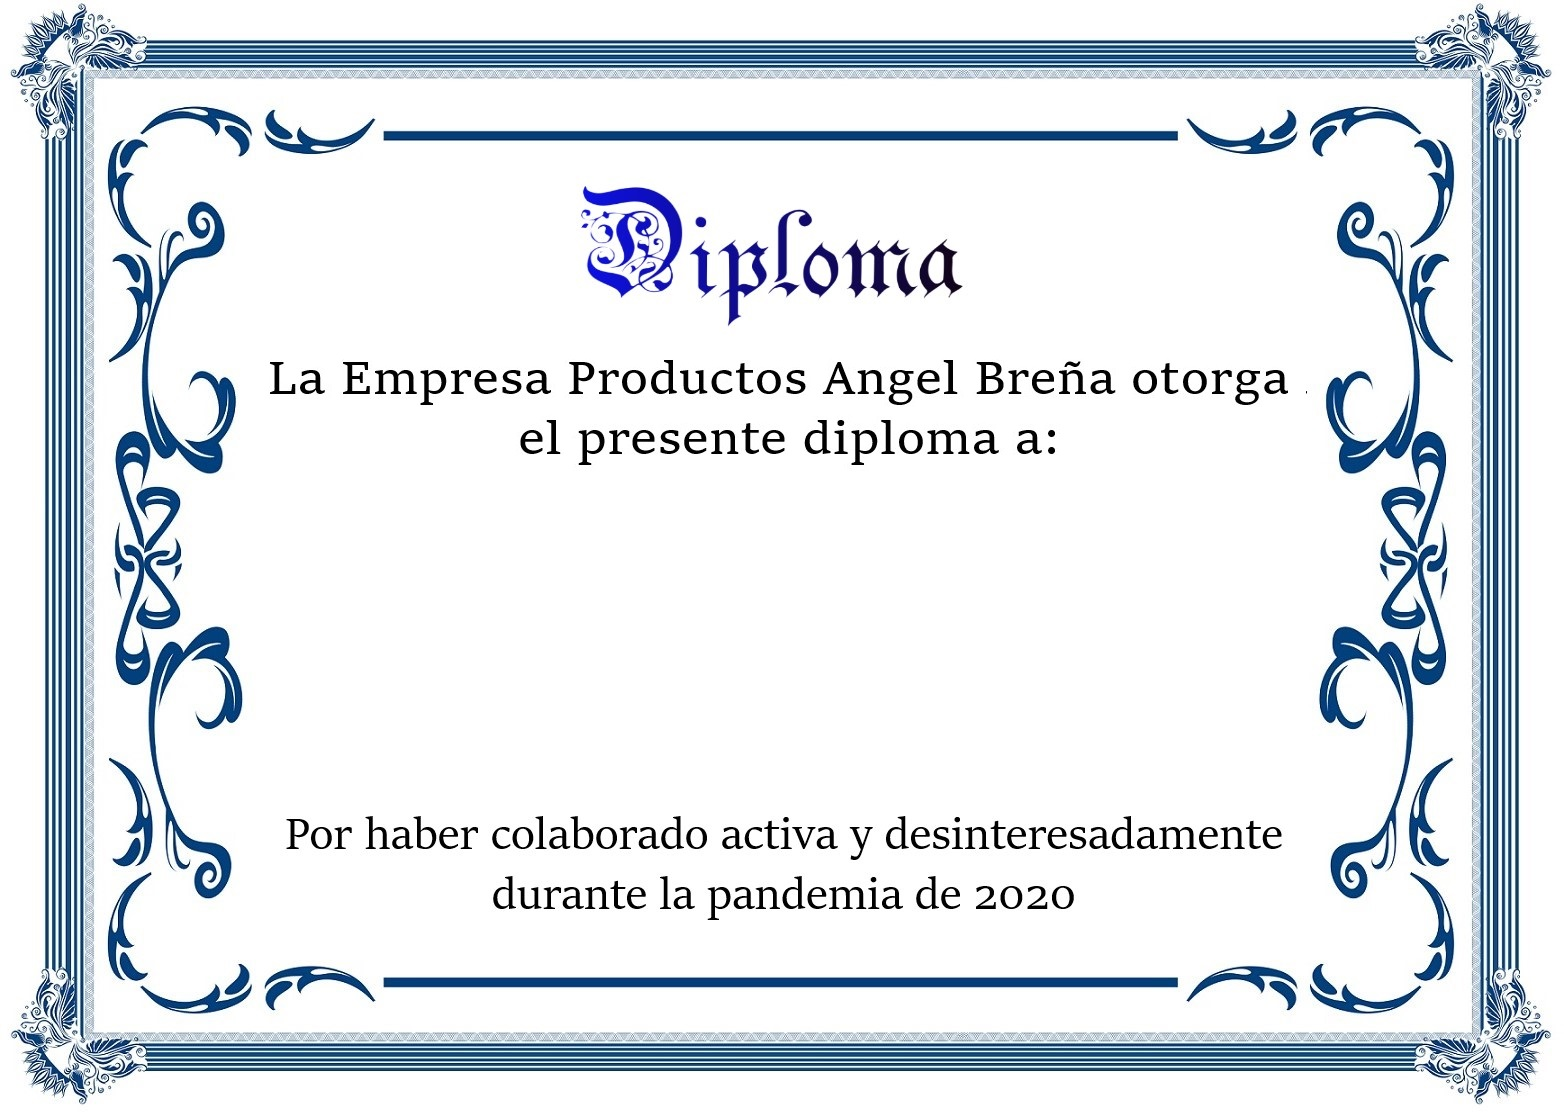
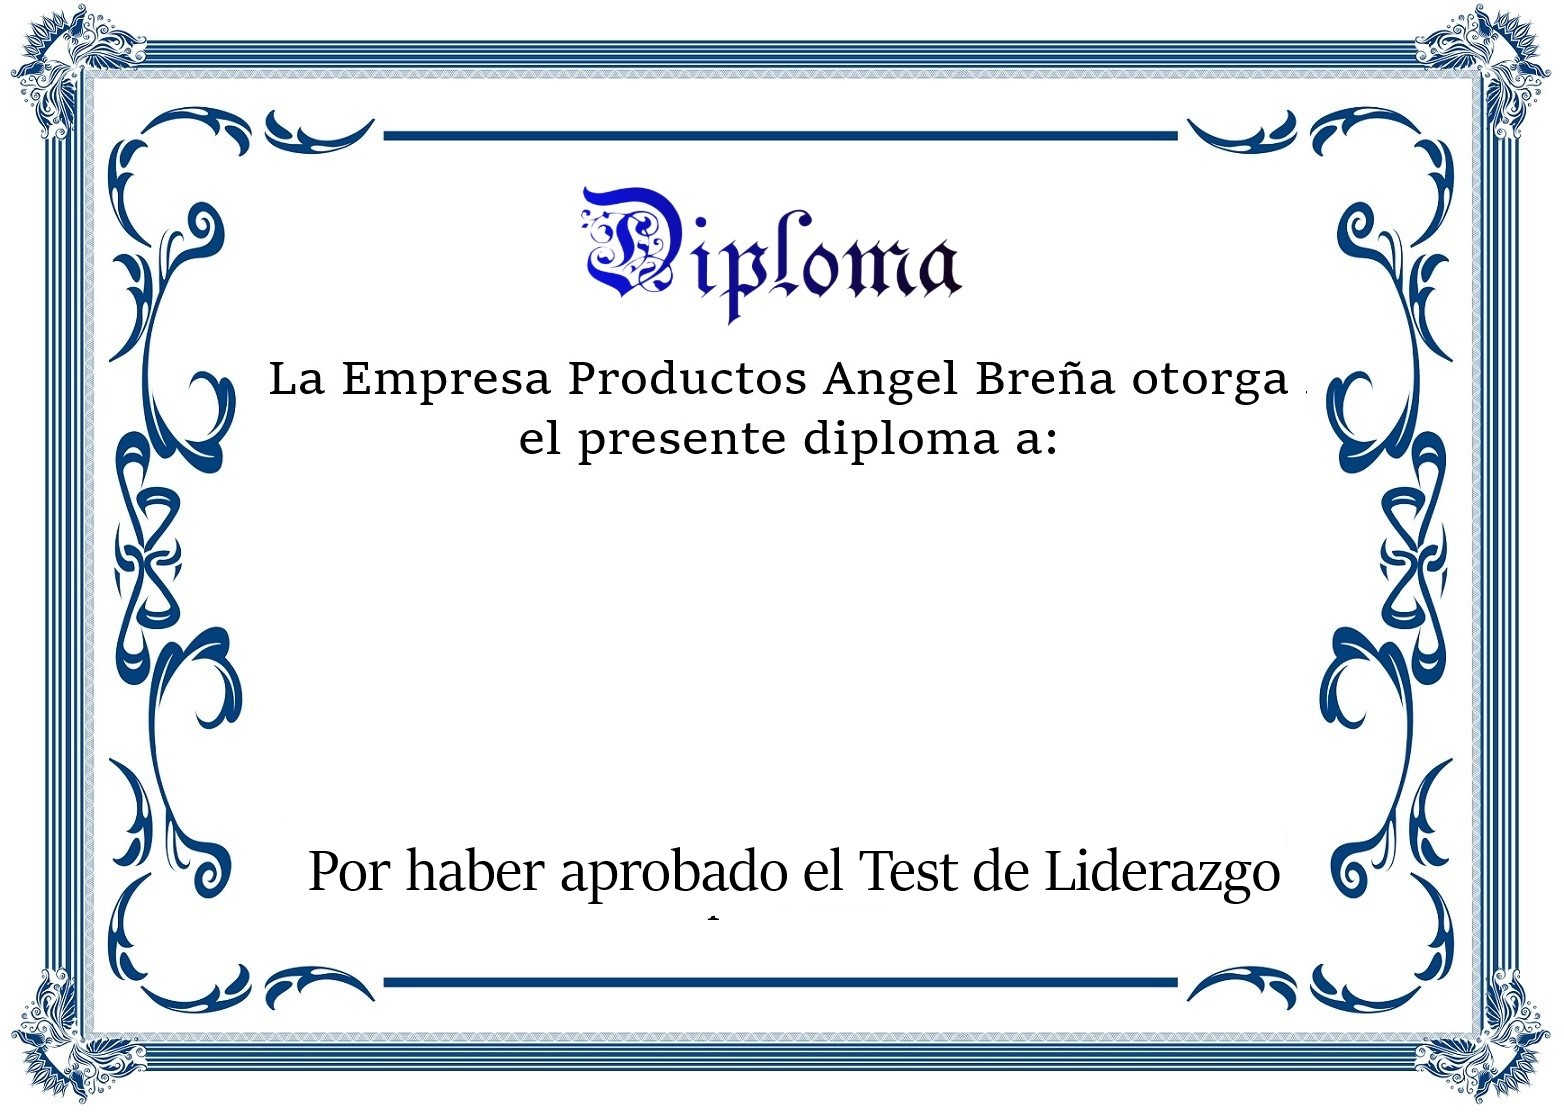
listo liderazgo

Changed region(s): [[0.1841, 0.7305, 0.8286, 0.8218]]

diff --git a/src/app/cuestionarios/ex3/ex3.component.ts b/src/app/cuestionarios/ex3/ex3.component.ts
@@ -11,7 +11,191 @@ import { Afiliado } from 'src/app/models/afiliado.model';
   styleUrls: ['./ex3.component.scss']
 })
 export class Ex3Component implements OnInit {
-  cuest=[{"preg":"Sientes  odio hacia otra persona","resps":["Si","No"],"vals":[0,2]},{"preg":"Te llevas bien con tus vecinos","resps":["Si","No"],"vals":[2,0]},{"preg": "A cuántas fiestas has ido","resps":["A ninguna","A una o dos","A más de 2"],"vals":[2,0,0]},{"preg": "Pandemia es","resps":["Un baile moderno","Una calamidad mundial","Anemia del pan"],"vals":[0,2,0]},{"preg": "Amor al Prójimo es","resps":["Amar a un señor llamado Prójimo","Apoyar a otro para pedir su voto","Preocuparse y ayudar a los demás"],"vals":[0,0,2]},{"preg": "A cuántas personas has ayudado este año","resps":["A ninguna","A menos de 3","A más de 5"],"vals":[0,2,2]},{"preg": "Te lavas las manos al llegar a casa","resps":["Si","No"],"vals":[2,0]},{"preg": "Si alguien no lleva facial en el bus","resps":["Lo felicitas","Lo imitas","Le reclamas","Lo golpeas","No haces nada"],"vals":[0,0,2,0,0]},{"preg": "A cuántas fiestas has ido","resps":["A ninguna","A una o dos","A más de 2"],"vals":[2,0,0]},{"preg": "Te preocupa el COVID 19","resps":["Si","No"],"vals":[2,0]},{"preg": "Respetas la cuarentena","resps":["Si","No"],"vals":[2,0]},{"preg": "Mantienes la distancia de metro y medio","resps":["Si","A veces","No"],"vals":[2,0,0]},{"preg": "Comes saludable","resps":["Si","No"],"vals":[2,0]},{"preg": "Ayudas a las autoridades","resps":["Si","No"],"vals":[2,0]},{"preg": "Ayudas a los infectados","resps":["Si","No"],"vals":[2,0]}];
+  cuest=[
+    {
+      "preg": "Jesús fue un Líder",
+      "resps": [
+        "Si",
+        "No"
+      ],
+      "vals": [
+        2,
+        0
+      ]
+    },
+    {
+      "preg": "Una Mujer puede ser Líder",
+      "resps": [
+        "Si",
+        "No"
+      ],
+      "vals": [
+        2,
+        0
+      ]
+    },
+    {
+      "preg": "Un buen Líder logra conseguir objetivos",
+      "resps": [
+        "Gritos",
+        "A golpes",
+        "Con inteligencia"
+      ],
+      "vals": [
+        0,
+        0,
+        2
+      ]
+    },
+    {
+      "preg": "Se consigue un buen liderazgo con",
+      "resps": [
+        "Dinero",
+        "Una conducta ejemplar",
+        "Buena conducta y resultados exitosos"
+      ],
+      "vals": [
+        0,
+        0,
+        2
+      ]
+    },
+    {
+      "preg": "Ser arrogante te hace ",
+      "resps": [
+        "Un Gran Líder",
+        "Una persona indeseada",
+        "Alguien que causa envídia"
+      ],
+      "vals": [
+        0,
+        2,
+        0
+      ]
+    },
+    {
+      "preg": "un Líder tiene",
+      "resps": [
+        "Objetivos",
+        "Objetivos y proyectos",
+        "Lo anterior más voluntad y persuación"
+      ],
+      "vals": [
+        0,
+        2,
+        2
+      ]
+    },
+    {
+      "preg": "Es Líder el Jefe de un grupo de ladrones",
+      "resps": [
+        "Si",
+        "No"
+      ],
+      "vals": [
+        2,
+        0
+      ]
+    },
+    {
+      "preg": "Quién es un gran Líder",
+      "resps": [
+        "Jaime Bayly",
+        "Vargas Llosa",
+        "ivanna Iturbe",
+        "Magaly Medina",
+        "Ninguno"
+      ],
+      "vals": [
+        0,
+        0,
+        0,
+        0,
+        2
+      ]
+    },
+    {
+      "preg": "Qué debe tener un buen Líder",
+      "resps": [
+        "Dinero",
+        "Matones o mercenarios",
+        "Poder de convencimiento"
+      ],
+      "vals": [
+        2,
+        0,
+        0
+      ]
+    },
+    {
+      "preg": "Un Líder puede usar El Engaño para conseguir objetivos",
+      "resps": [
+        "Si",
+        "No"
+      ],
+      "vals": [
+        2,
+        0
+      ]
+    },
+    {
+      "preg": "Una persona muerta puede ser Líder",
+      "resps": [
+        "Si",
+        "No"
+      ],
+      "vals": [
+        2,
+        0
+      ]
+    },
+    {
+      "preg": "Ser Líder te exime de ir a la carcel ",
+      "resps": [
+        "Si",
+        "No",
+        "Ninguna de las anteriores"
+      ],
+      "vals": [
+        0,
+        2,
+        0
+      ]
+    },
+    {
+      "preg": "Se nace Líder",
+      "resps": [
+        "Si",
+        "No"
+      ],
+      "vals": [
+        0,
+        2
+      ]
+    },
+    {
+      "preg": "Maduro es un buen Líder",
+      "resps": [
+        "Si",
+        "No"
+      ],
+      "vals": [
+        0,
+        2
+      ]
+    },
+    {
+      "preg": "Para ser Líder es necesario ser agraciado",
+      "resps": [
+        "Si",
+        "No"
+      ],
+      "vals": [
+        0,
+        2
+      ]
+    }
+  ];
   nota=0;
   notap=0;
   vnotas=[0,0,0,0,0,0,0,0,0,0];
@@ -46,7 +230,7 @@ export class Ex3Component implements OnInit {
     //console.log(this.getAfiliados());
     //this.saveAfiliado({nombres:"Angel",apellidos:"Breña",email:"perumundo@gmail.com",movil:"555555",nota1:0,nota2:0,nota3:0,nota4:0})
     this.traerAfiliados();
-    if(this.Current.nombres != "" ){this.tienename=this.Current.nombres; this.nota=this.Current.nota4};
+    if(this.Current.nombres != "" ){this.tienename=this.Current.nombres; this.nota=this.Current.nota3};
 
   }
 
@@ -75,7 +259,7 @@ export class Ex3Component implements OnInit {
       console.log('Created new item successfully!');
       this.submitted = true;
       this.registrado=true;
-      this.router.navigate(['/capacitaciones']);
+      this.router.navigate(['/liderazgo']);
     });
   }
 
@@ -83,13 +267,13 @@ export class Ex3Component implements OnInit {
     const data = JSON.parse(localStorage.getItem('current'));
     this.botonenviar='Intenta de Nuevo'
     this.nota=this.notap;
-    data.nota4 = this.nota;
+    data.nota3 = this.nota;
     let afilx = this.losAfiliados.filter(e=>e.email==data.email);
     console.log(JSON.stringify(afilx));
     this.afiliadosService.update(afilx[0].ida, data)
       .then(() => localStorage.setItem('current', JSON.stringify(data) ))
       .catch(err => console.log(err));
-    this.router.navigate(['/capacitaciones']);
+    this.router.navigate(['/liderazgo']);
   }
   calNota(i:number,v:number){
       this.vnotas[i]=v;

diff --git a/src/app/app-routing.module.ts b/src/app/app-routing.module.ts
@@ -8,6 +8,7 @@ import { BeneficiosComponent} from './components/beneficios/beneficios.component
 import { CapacitacionesComponent} from './components/capacitaciones/capacitaciones.component';
 import { LiderazgoComponent } from './components/liderazgo/liderazgo.component';
 import { C11Component } from './contenidos/c11/c11.component';
+import { Diploma3Component } from './diplomas/diploma3/diploma3.component';
 import { Diploma4Component } from './diplomas/diploma4/diploma4.component';
 
 
@@ -19,8 +20,9 @@ const routes: Routes = [
   { path: 'productos', component: ProductosComponent },
   { path: 'empresa', component: EmpresaComponent },
   { path: 'beneficios', component: BeneficiosComponent },
-  { path: 'capacitaciones', component: CapacitacionesComponent },
   { path: 'liderazgo', component: LiderazgoComponent },
+  { path: 'capacitaciones', component: CapacitacionesComponent },
+  { path: 'diploma3', component : Diploma3Component},
   { path: 'diploma4', component : Diploma4Component},
   { path: 'c11', component: C11Component },
 ];

diff --git a/public/index.html b/public/index.html
@@ -15,6 +15,6 @@
     <app-root></app-root>
     <script src="https://code.jquery.com/jquery-3.5.1.slim.min.js" integrity="sha384-DfXdz2htPH0lsSSs5nCTpuj/zy4C+OGpamoFVy38MVBnE+IbbVYUew+OrCXaRkfj" crossorigin="anonymous"></script>
     <script src="https://cdn.jsdelivr.net/npm/bootstrap@4.5.3/dist/js/bootstrap.bundle.min.js" integrity="sha384-ho+j7jyWK8fNQe+A12Hb8AhRq26LrZ/JpcUGGOn+Y7RsweNrtN/tE3MoK7ZeZDyx" crossorigin="anonymous"></script>
-<script src="runtime.e227d1a0e31cbccbf8ec.js" defer></script><script src="polyfills.a4021de53358bb0fec14.js" defer></script><script src="main.1b5dcdccfbb94a5f665d.js" defer></script></body>
+<script src="runtime.e227d1a0e31cbccbf8ec.js" defer></script><script src="polyfills.a4021de53358bb0fec14.js" defer></script><script src="main.d7afce8a78c0a5169dc0.js" defer></script></body>
 
 </html>

diff --git a/src/app/diplomas/diploma3/diploma3.component.ts b/src/app/diplomas/diploma3/diploma3.component.ts
@@ -9,8 +9,8 @@ import html2canvas from 'html2canvas';
 })
 export class Diploma3Component {
   datos=JSON.parse(localStorage.getItem('current'));
-  diploma='assets/imgs/diploma4.jpg';
-  nota=this.datos.nota4;
+  diploma='assets/imgs/diploma3.jpg';
+  nota=this.datos.nota3;
   nombre=this.datos.nombres+" "+this.datos.apellidos;
 
   @ViewChild('screen') screen: ElementRef;
@@ -26,7 +26,7 @@ export class Diploma3Component {
     });
   }
   regresar(){
-    this.router.navigate(['/capacitaciones']);
+    this.router.navigate(['/liderazgo']);
   }
 }
 

diff --git a/src/app/components/liderazgo/liderazgo.component.html b/src/app/components/liderazgo/liderazgo.component.html
@@ -94,7 +94,7 @@
             </div>
         </div>
         <div class="tab-pane fade" id="nav-test" role="tabpanel" aria-labelledby="nav-test-tab">
-            <app-ex4></app-ex4>
+            <app-ex3></app-ex3>
         </div>
         <div class="tab-pane fade" id="nav-temas" role="tabpanel" aria-labelledby="nav-temas-tab">...</div>
     </div>
